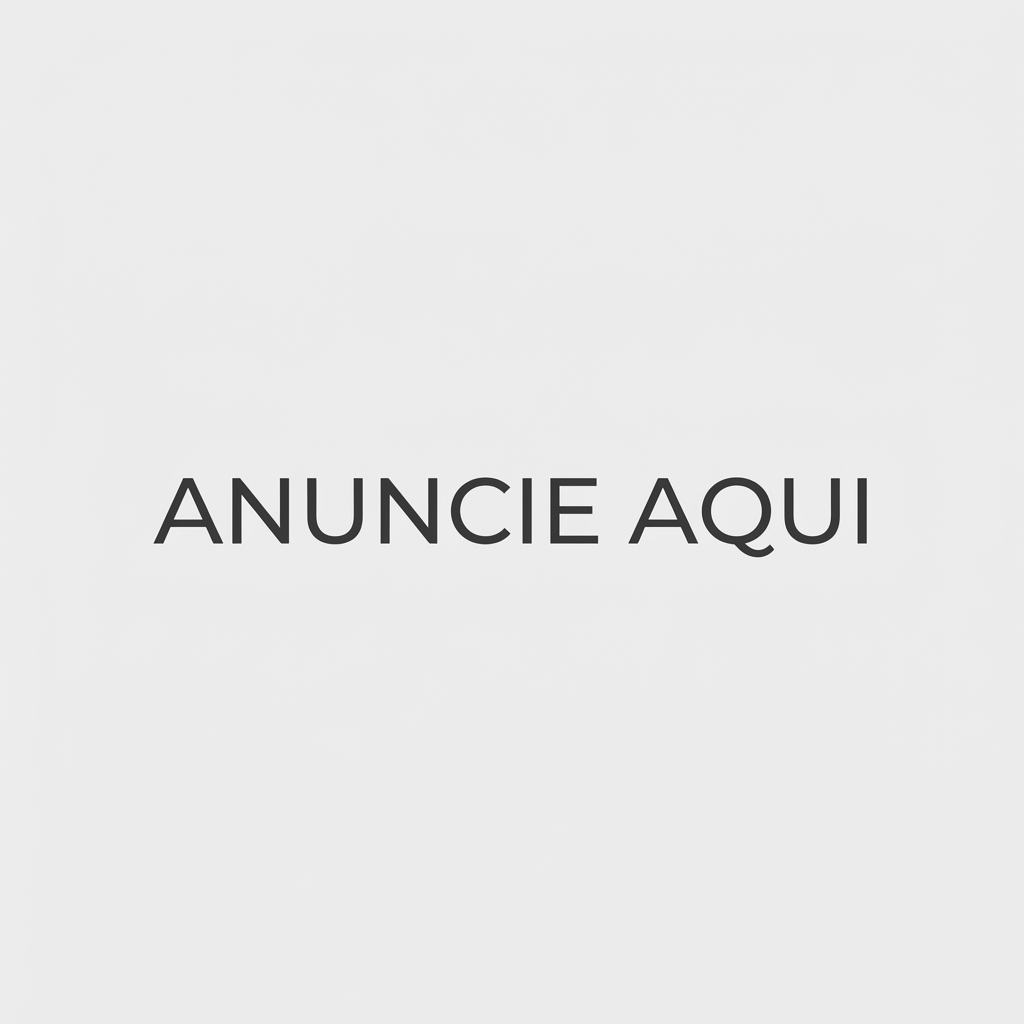
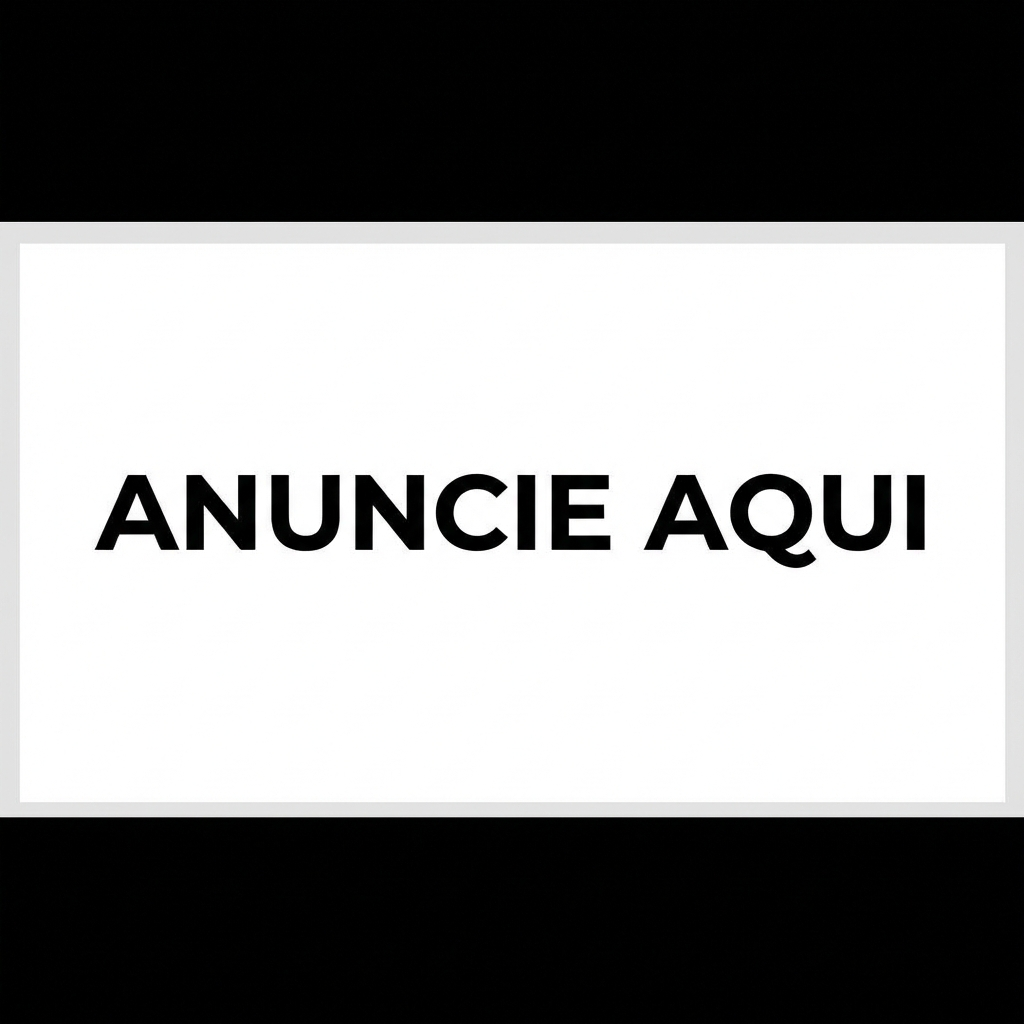
fix(v1.1): Reduce grid-footer gap, wider ad fallback, verify emojis

diff --git a/style.css b/style.css
@@ -36,7 +36,8 @@ body {
     min-height: 100vh;
     line-height: 1.6;
     /* Increased spacing */
-    transition: background-color 0.3s ease, color 0.3s ease;
+    /* Unify transitions for subtle mode switch */
+    transition: background-color 0.3s ease, color 0.3s ease, border-color 0.3s ease;
 }
 
 /* Header */
@@ -160,9 +161,26 @@ body {
     font-weight: 600;
     font-size: 1rem;
     cursor: pointer;
-    transition: transform 0.1s ease;
     /* Add Pulse */
     animation: pulseSubtle 3s infinite;
+}
+
+/* Pulse Animation */
+@keyframes pulseSubtle {
+    0% {
+        transform: scale(1);
+        box-shadow: 0 0 0 0 rgba(0, 149, 246, 0.4);
+    }
+
+    70% {
+        transform: scale(1.02);
+        box-shadow: 0 0 0 6px rgba(0, 149, 246, 0);
+    }
+
+    100% {
+        transform: scale(1);
+        box-shadow: 0 0 0 0 rgba(0, 149, 246, 0);
+    }
 }
 
 .btn-primary:active {
@@ -382,14 +400,22 @@ body {
     border-color: var(--text-primary);
 }
 
-/* Grid Container */
+/* Grid Container - Reduce Bottom Gap */
 .grid-container {
     display: grid;
     grid-template-columns: repeat(3, 1fr);
     gap: 2px;
     width: 100%;
-    padding-bottom: 100px;
+    /* Further reduced padding-bottom (was 60px) */
+    padding-bottom: 20px;
     margin: 0 auto;
+}
+
+.grid-wrapper-relative {
+    position: relative;
+    max-width: 100%;
+    margin-bottom: 0px;
+    /* Removed margin completely */
 }
 
 /* ... existing grid items ... */
@@ -460,6 +486,17 @@ body {
     margin-bottom: 20px;
 }
 
+.ad-text-link {
+    text-decoration: none;
+    cursor: pointer;
+    display: inline-block;
+}
+
+.ad-text-link:hover .ad-text-label {
+    color: var(--accent-color);
+    text-decoration: underline;
+}
+
 .ad-text-label {
     display: block;
     margin-bottom: 8px;
@@ -468,11 +505,15 @@ body {
     letter-spacing: 0.5px;
     color: var(--text-secondary);
     text-transform: uppercase;
+    transition: color 0.2s;
 }
 
 .ad-fallback {
     display: block;
-    max-width: 320px;
+    max-width: 100%;
+    /* Allow full width */
+    width: 728px;
+    /* Target width */
     margin: 0 auto;
     border-radius: 4px;
     overflow: hidden;

diff --git a/index.html b/index.html
@@ -47,7 +47,7 @@
                 with your new content.
             </p>
 
-            <!-- Instructions Module (Moved Up) -->
+            <!-- Instructions Module (Moved Above Input) -->
             <div class="instructions">
                 <h3 data-i18n="how_to_title">How to use:</h3>
                 <ol>
@@ -58,8 +58,7 @@
                 </ol>
             </div>
 
-            <!-- Input Moved Below Instructions -->
-            <div class="search-bar-hero" style="margin-top: 30px;">
+            <div class="search-bar-hero" style="margin-top: 40px;"> <!-- Added margin for spacing -->
                 <input type="text" id="usernameInput" placeholder="instagram" autofocus>
                 <button id="fetchBtn" class="btn-primary" data-i18n="btn_fetch">Fetch Grid</button>
             </div>
@@ -146,12 +145,14 @@
 
     <footer class="app-footer">
         <div class="ad-container">
-            <span class="ad-text-label" data-i18n="ad_text">Advertise here for just R$9,90</span>
-
-            <!-- Fallback Ad (Always Visible or Conditional) -->
-            <a href="https://wa.me/5584999034089" target="_blank" class="ad-fallback" title="Advertise with us">
-                <img src="ad_fallback.png" alt="Advertise Here" id="adImage">
+            <a href="https://wa.me/5584999034089" target="_blank" class="ad-text-link">
+                <span class="ad-text-label" data-i18n="ad_text">Advertise here for just R$9,90</span>
             </a>
+
+            <!-- Fallback Ad (Image Only) -->
+            <div class="ad-fallback" title="Advertise with us">
+                <img src="ad_fallback.png" alt="Advertise Here" id="adImage">
+            </div>
 
             <!-- AdSense Auto Ads (Will overlay or displace if loaded) -->
             <ins class="adsbygoogle" style="display:block; margin-top:20px;" data-ad-client="ca-pub-7467411748752837"

diff --git a/app.js b/app.js
@@ -408,9 +408,9 @@ const Localization = {
             'input_placeholder': 'instagram',
             'btn_fetch': 'Fetch Grid',
             'how_to_title': 'How to use:',
-            'how_to_1': '📸 <strong>Fetch</strong> a public profile to load its last 9 posts.',
-            'how_to_2': '📤 <strong>Upload</strong> images to preview them in the grid.',
-            'how_to_3': '✨ <strong>Drag & Drop</strong> to rearrange and find the perfect aesthetic.',
+            'how_to_1': '<strong>Fetch</strong> a public profile to load its last 9 posts.',
+            'how_to_2': '<strong>Upload</strong> images to preview them in the grid.',
+            'how_to_3': '<strong>Drag & Drop</strong> to rearrange and find the perfect aesthetic.',
             'stat_posts': 'posts',
             'stat_followers': 'followers',
             'stat_following': 'following',
@@ -425,9 +425,9 @@ const Localization = {
             'input_placeholder': 'usuário',
             'btn_fetch': 'Buscar Grid',
             'how_to_title': 'Como usar:',
-            'how_to_1': '📸 <strong>Busque</strong> um perfil público para carregar os últimos 9 posts.',
-            'how_to_2': '📤 <strong>Carregue</strong> imagens para pré-visualizar no grid.',
-            'how_to_3': '✨ <strong>Arraste e Solte</strong> para organizar e encontrar a estética perfeita.',
+            'how_to_1': '<strong>Busque</strong> um perfil público para carregar os últimos 9 posts.',
+            'how_to_2': '<strong>Carregue</strong> imagens para pré-visualizar no grid.',
+            'how_to_3': '<strong>Arraste e Solte</strong> para organizar e encontrar a estética perfeita.',
             'stat_posts': 'publicações',
             'stat_followers': 'seguidores',
             'stat_following': 'seguindo',
